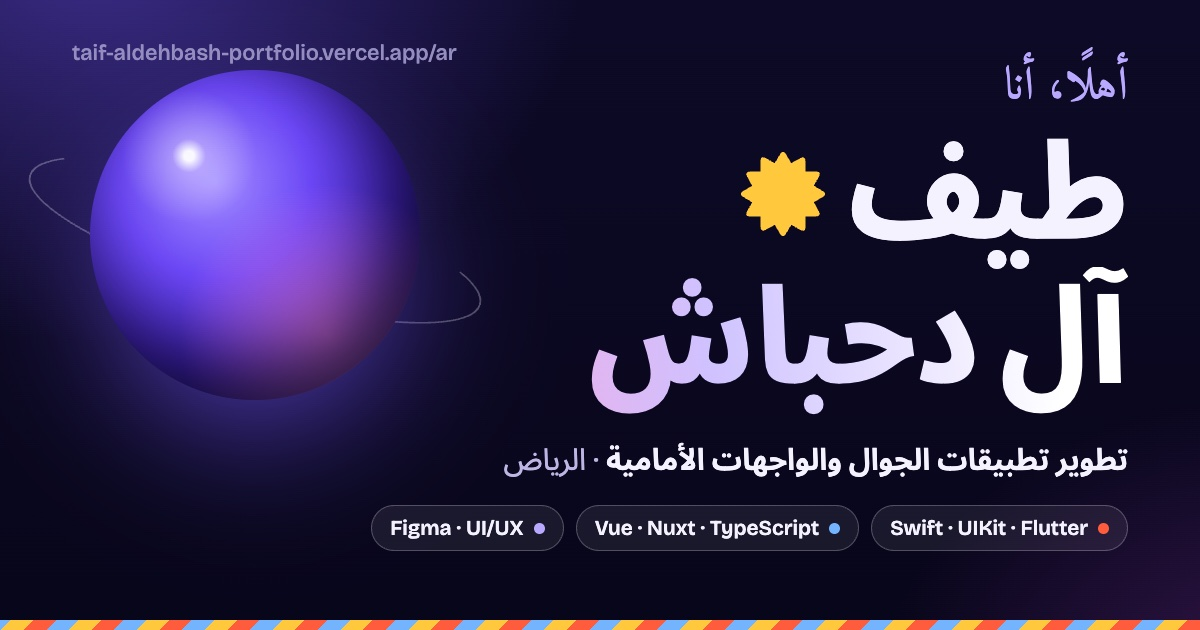
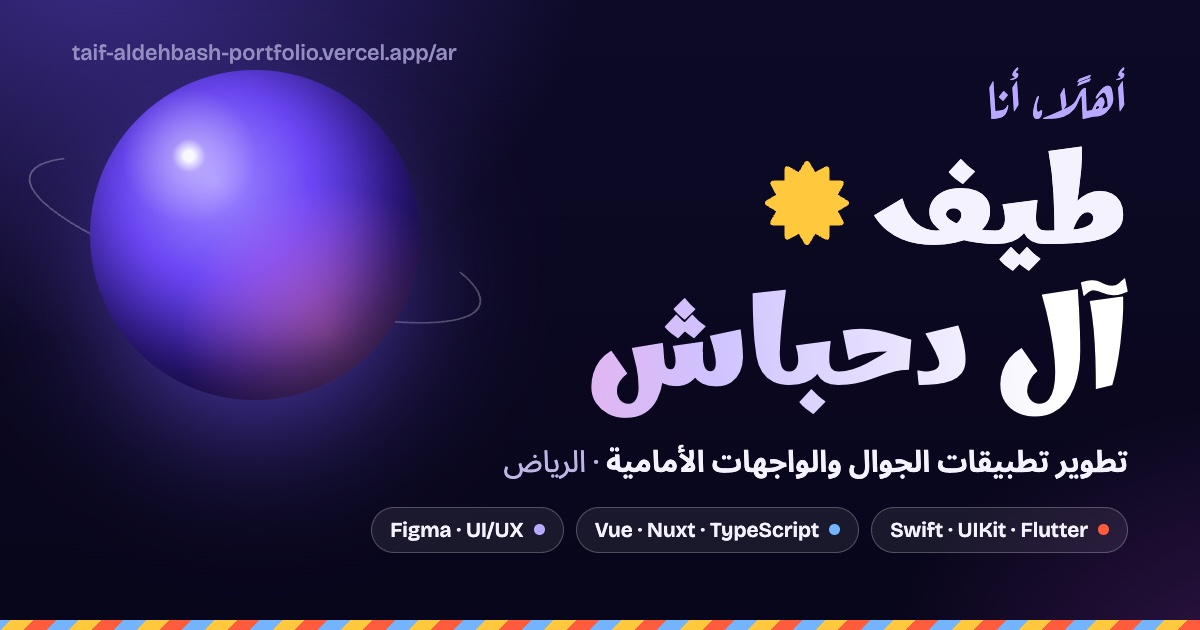
Give the Arabic page playful fonts: Marhey and Aref Ruqaa
The Arabic page looked plainer than the English one. It now has its
own voice in the same spirit:

- Marhey (bold, rounded, brush-like) sets the hero name and the big
  headings, where English uses condensed Bricolage. A new
  --font-display token puts it after Bricolage in the stack, so only
  Arabic text picks it up.
- Aref Ruqaa replaces Amiri for the greeting, section eyebrows and
  highlighted words. Ruqaa is everyday handwriting, so it plays the
  role Instrument Serif italic plays in English. Its letters sit small,
  so the Arabic eyebrow and greeting run a size up.
- Noto Sans Arabic stays for text and UI, now loading only the weight
  axis since nothing condensed uses it. Arabic font weight drops from
  382 KB (Noto standard + Amiri) to about 225 KB.
- The Arabic hero cap moves to 8.25rem so the Marhey surname keeps a
  clear gap from the orbit chips at 1100px.
- The Arabic share image and its source use the new fonts.

diff --git a/scripts/og-card-ar.html b/scripts/og-card-ar.html
@@ -2,8 +2,9 @@
 <html lang="ar" dir="rtl"><head><meta charset="utf-8">
 <style>
 @font-face { font-family: 'Bricolage'; src: url('../node_modules/@fontsource-variable/bricolage-grotesque/files/bricolage-grotesque-latin-standard-normal.woff2') format('woff2-variations'); font-weight: 200 800; font-stretch: 75% 100%; }
-@font-face { font-family: 'Noto Sans Arabic'; src: url('../node_modules/@fontsource-variable/noto-sans-arabic/files/noto-sans-arabic-arabic-standard-normal.woff2') format('woff2-variations'); font-weight: 100 900; font-stretch: 62.5% 100%; }
-@font-face { font-family: 'Amiri'; src: url('../node_modules/@fontsource/amiri/files/amiri-arabic-400-normal.woff2') format('woff2'); }
+@font-face { font-family: 'Noto Sans Arabic'; src: url('../node_modules/@fontsource-variable/noto-sans-arabic/files/noto-sans-arabic-arabic-wght-normal.woff2') format('woff2-variations'); font-weight: 100 900; }
+@font-face { font-family: 'Marhey'; src: url('../node_modules/@fontsource-variable/marhey/files/marhey-arabic-wght-normal.woff2') format('woff2-variations'); font-weight: 300 700; }
+@font-face { font-family: 'Aref Ruqaa'; src: url('../node_modules/@fontsource/aref-ruqaa/files/aref-ruqaa-arabic-400-normal.woff2') format('woff2'); }
 * { margin: 0; box-sizing: border-box; }
 html, body { width: 1200px; height: 630px; overflow: hidden; }
 body {
@@ -22,8 +23,8 @@ body {
 .ring { position: absolute; top: 185px; left: 20px; width: 470px; height: 110px; border-radius: 50%;
   border: 2px solid rgb(255 255 255 / 0.28); border-top-color: transparent; transform: rotate(16deg); }
 .content { position: absolute; right: 72px; top: 58px; }
-.hi { font-family: 'Amiri', serif; font-size: 46px; line-height: 1.3; color: #b9a8ff; margin-bottom: 4px; }
-h1 { font-size: 132px; font-weight: 800; font-stretch: 75%; line-height: 1.1; }
+.hi { font-family: 'Aref Ruqaa', serif; font-size: 54px; line-height: 1.3; color: #b9a8ff; margin-bottom: 4px; }
+h1 { font-family: 'Bricolage', 'Marhey', sans-serif; font-size: 128px; font-weight: 700; line-height: 1.1; }
 h1 span { display: flex; align-items: center; gap: 22px; }
 h1 span:last-child { background: linear-gradient(265deg, #fff 10%, #cfc2ff 55%, #ff9fd8 100%); -webkit-background-clip: text; background-clip: text; color: transparent; padding-bottom: 8px; }
 .burst { width: 86px; height: 86px; }

diff --git a/src/styles/global.css b/src/styles/global.css
@@ -34,8 +34,11 @@
   --glass-blur: 18px;
 
   /* Type */
+  /* Bricolage and Instrument Serif only carry Latin, so Arabic text falls through to the next font:
+     Noto Sans Arabic for text, Marhey for the big condensed headings, Aref Ruqaa for the serif accents. */
   --font-sans: 'Bricolage Grotesque Variable', 'Noto Sans Arabic Variable', ui-sans-serif, system-ui, -apple-system, sans-serif;
-  --font-serif: 'Instrument Serif', 'Amiri', ui-serif, Georgia, serif;
+  --font-display: 'Bricolage Grotesque Variable', 'Marhey Variable', 'Noto Sans Arabic Variable', ui-sans-serif, system-ui, -apple-system, sans-serif;
+  --font-serif: 'Instrument Serif', 'Aref Ruqaa', ui-serif, Georgia, serif;
 
   --fs-hero: clamp(3.5rem, 20vw, 11rem);
   --fs-h2: clamp(2.75rem, 8vw, 6rem);

diff --git a/src/components/Hero.module.css b/src/components/Hero.module.css
@@ -55,6 +55,7 @@
 }
 
 .title {
+  font-family: var(--font-display);
   display: flex;
   flex-direction: column;
   font-size: var(--fs-hero);
@@ -257,10 +258,15 @@
 /* Arabic display type needs room for its tall letters and deep descenders. It also reads larger than
    Latin at the same size, and the longer surname would otherwise run into the orbit chips. */
 :global(:root:lang(ar)) .title {
-  font-size: clamp(3.5rem, 18vw, 8.5rem);
+  font-size: clamp(3.5rem, 18vw, 8.25rem);
   line-height: 1.2;
 }
 
 :global(:root:lang(ar)) .line:last-child {
   padding-bottom: 0.12em;
+}
+
+/* Aref Ruqaa's letters sit small on their body, so the Arabic greeting runs a size up. */
+:global(:root:lang(ar)) .greeting {
+  font-size: clamp(2rem, 3.6vw, 2.875rem);
 }

diff --git a/src/main.tsx b/src/main.tsx
@@ -4,8 +4,9 @@ import '@fontsource-variable/bricolage-grotesque/standard.css'
 import '@fontsource/instrument-serif/400.css'
 import '@fontsource/instrument-serif/400-italic.css'
 // Arabic glyphs: these only download on pages that show Arabic text.
-import '@fontsource-variable/noto-sans-arabic/standard.css'
-import '@fontsource/amiri/arabic-400.css'
+import '@fontsource-variable/noto-sans-arabic/wght.css'
+import '@fontsource-variable/marhey/wght.css'
+import '@fontsource/aref-ruqaa/arabic-400.css'
 import './styles/global.css'
 import App from './App.tsx'
 import { LocaleProvider, localeFromPath, textDir } from './i18n'

diff --git a/src/components/SectionHeading.module.css b/src/components/SectionHeading.module.css
@@ -24,6 +24,7 @@
 }
 
 .title {
+  font-family: var(--font-display);
   font-size: var(--fs-h2);
   font-weight: 800;
   font-stretch: 75%;
@@ -64,4 +65,9 @@
 
 :global([dir='rtl']) .eyebrow::before {
   background: linear-gradient(270deg, transparent, var(--violet-soft));
+}
+
+/* Aref Ruqaa's letters sit small on their body, so the Arabic eyebrow runs a size up. */
+:global(:root:lang(ar)) .eyebrow {
+  font-size: clamp(1.5rem, 2.4vw, 1.75rem);
 }

diff --git a/src/components/About.module.css b/src/components/About.module.css
@@ -193,6 +193,7 @@
 }
 
 .journeyTitle {
+  font-family: var(--font-display);
   margin-bottom: var(--space-4);
   font-size: clamp(2rem, 4vw, 3rem);
   font-weight: 800;

diff --git a/src/components/Tracks.module.css b/src/components/Tracks.module.css
@@ -65,6 +65,7 @@
 }
 
 .title {
+  font-family: var(--font-display);
   font-size: clamp(1.75rem, 3vw, 2.25rem);
   font-weight: 800;
   font-stretch: 80%;

diff --git a/src/components/Contact.module.css b/src/components/Contact.module.css
@@ -31,6 +31,7 @@
 }
 
 .title {
+  font-family: var(--font-display);
   max-width: 12ch;
   font-size: clamp(3rem, 9vw, 7rem);
   font-weight: 800;

diff --git a/README.md b/README.md
@@ -56,6 +56,9 @@ The site is in English at `/` and Arabic at `/ar/`. Any text a visitor reads is 
 languages when you add or change text. Counts that change with a number ("1 project", "مشروعان") go through
 `plural()` in [`src/i18n.ts`](src/i18n.ts), since Arabic has six plural forms. The Arabic page is right to
 left, so use logical CSS properties (`inset-inline-start`, `margin-inline-end`) rather than `left`/`right`.
+Its fonts are Marhey for the big headings (`--font-display`), Aref Ruqaa for the accents that use Instrument
+Serif in English (`--font-serif`), and Noto Sans Arabic for everything else (`--font-sans`). The Latin fonts
+come first in each stack and carry no Arabic, so Arabic text falls through to these.
 
 - **New project:** add an entry to `projects`. `tracks` decides which filter it shows under
   (`mobile`, `web`, `backend`). `status` is `Shipped` (released to users), `Built` (finished
